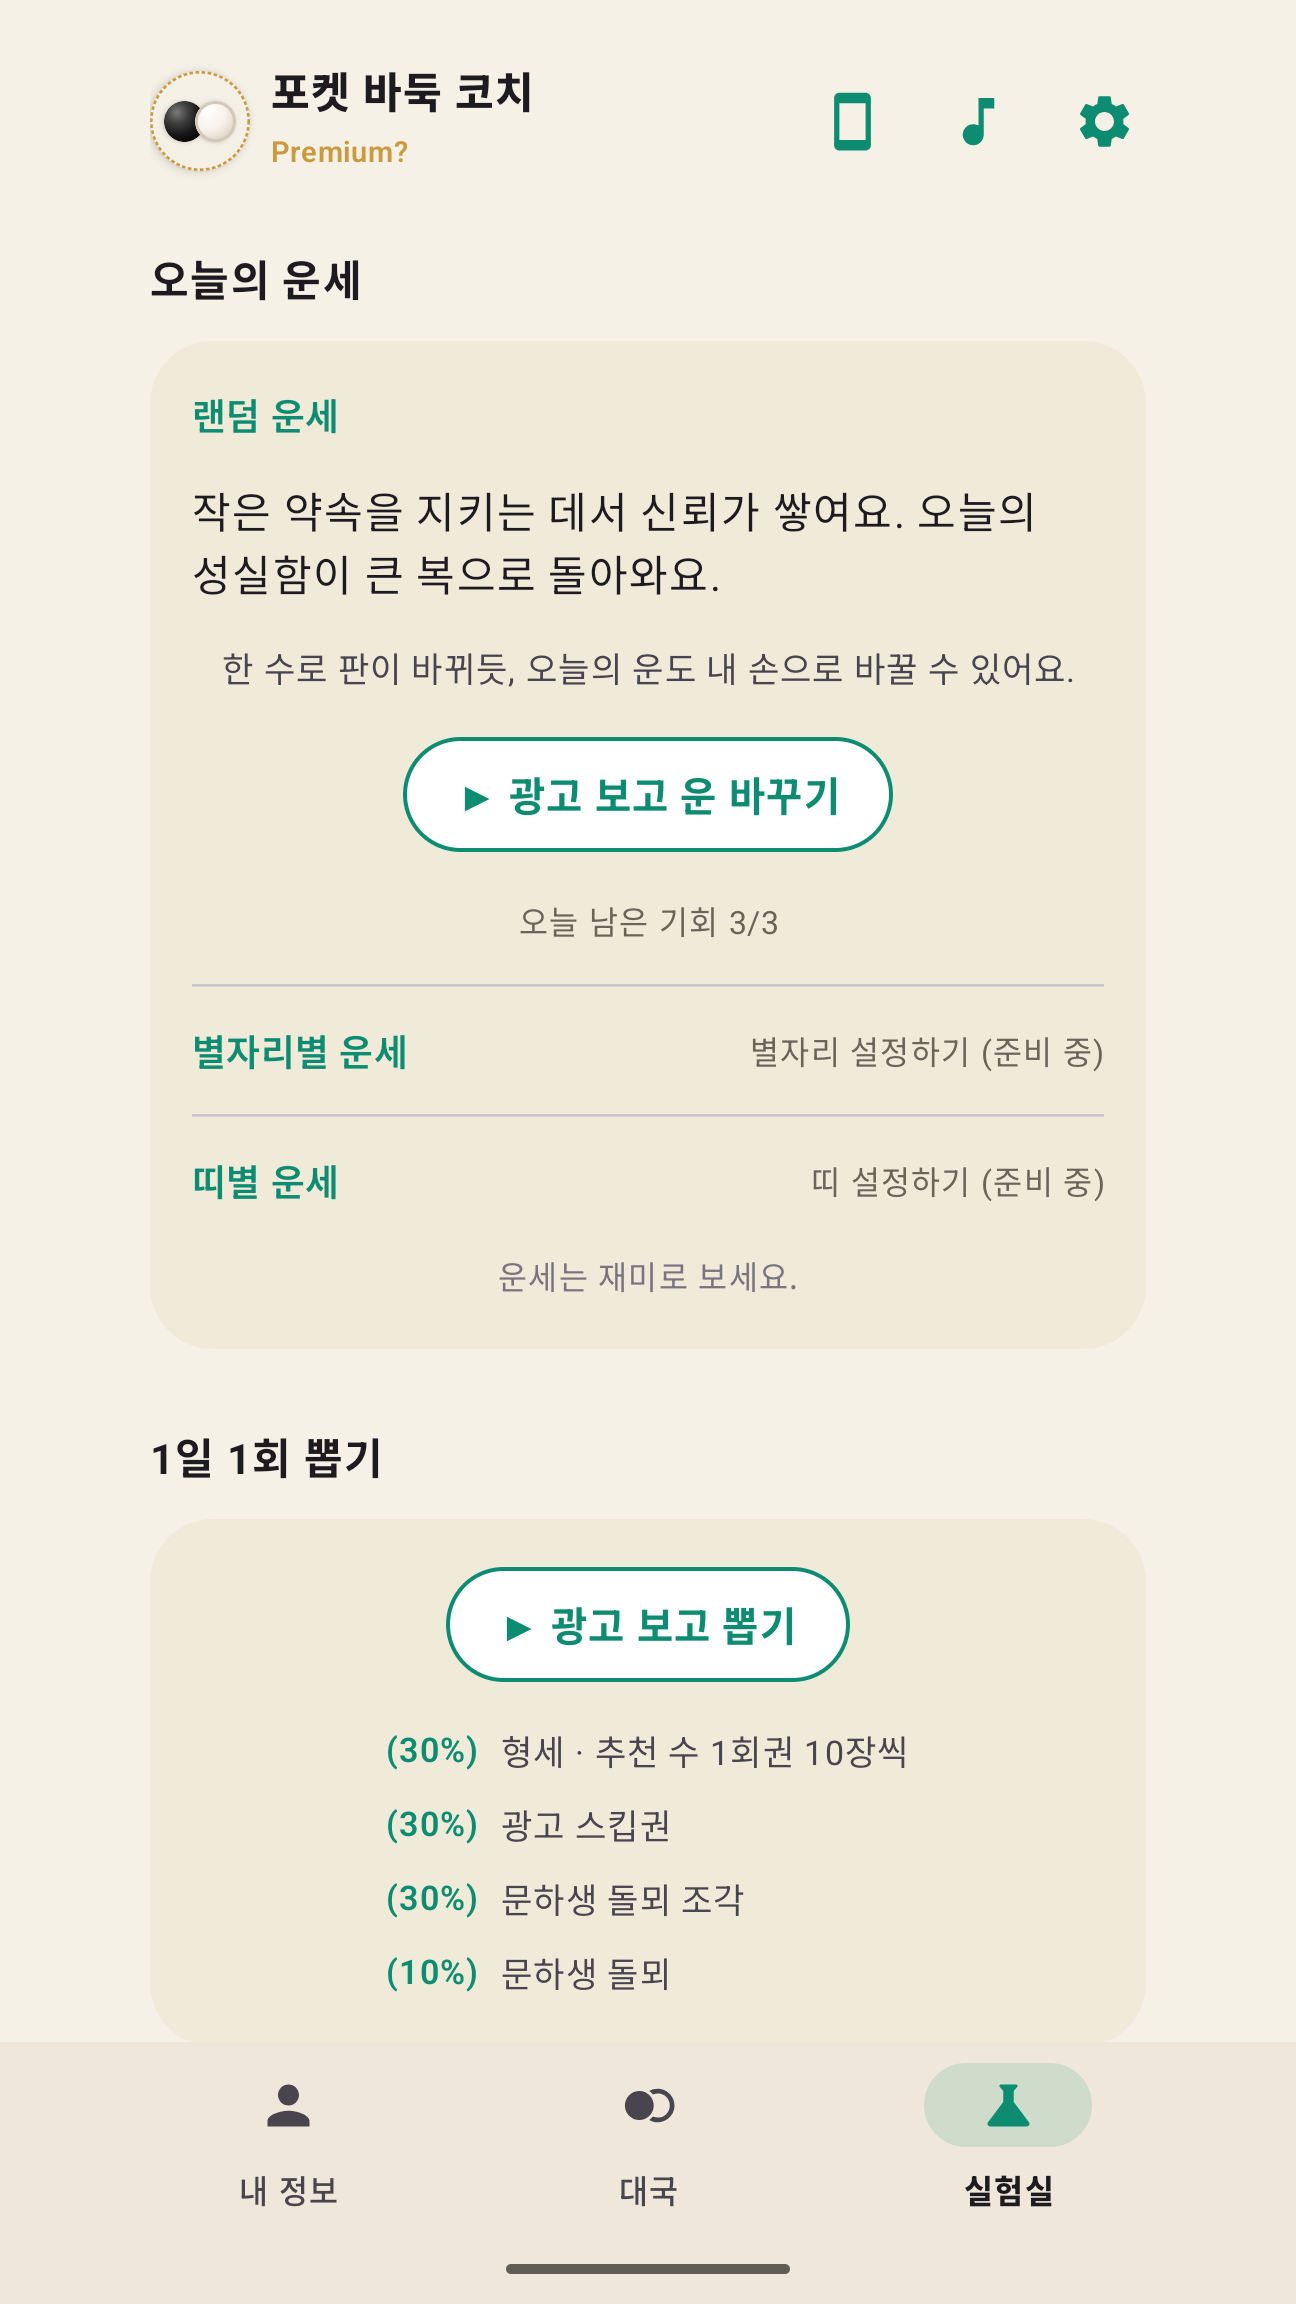
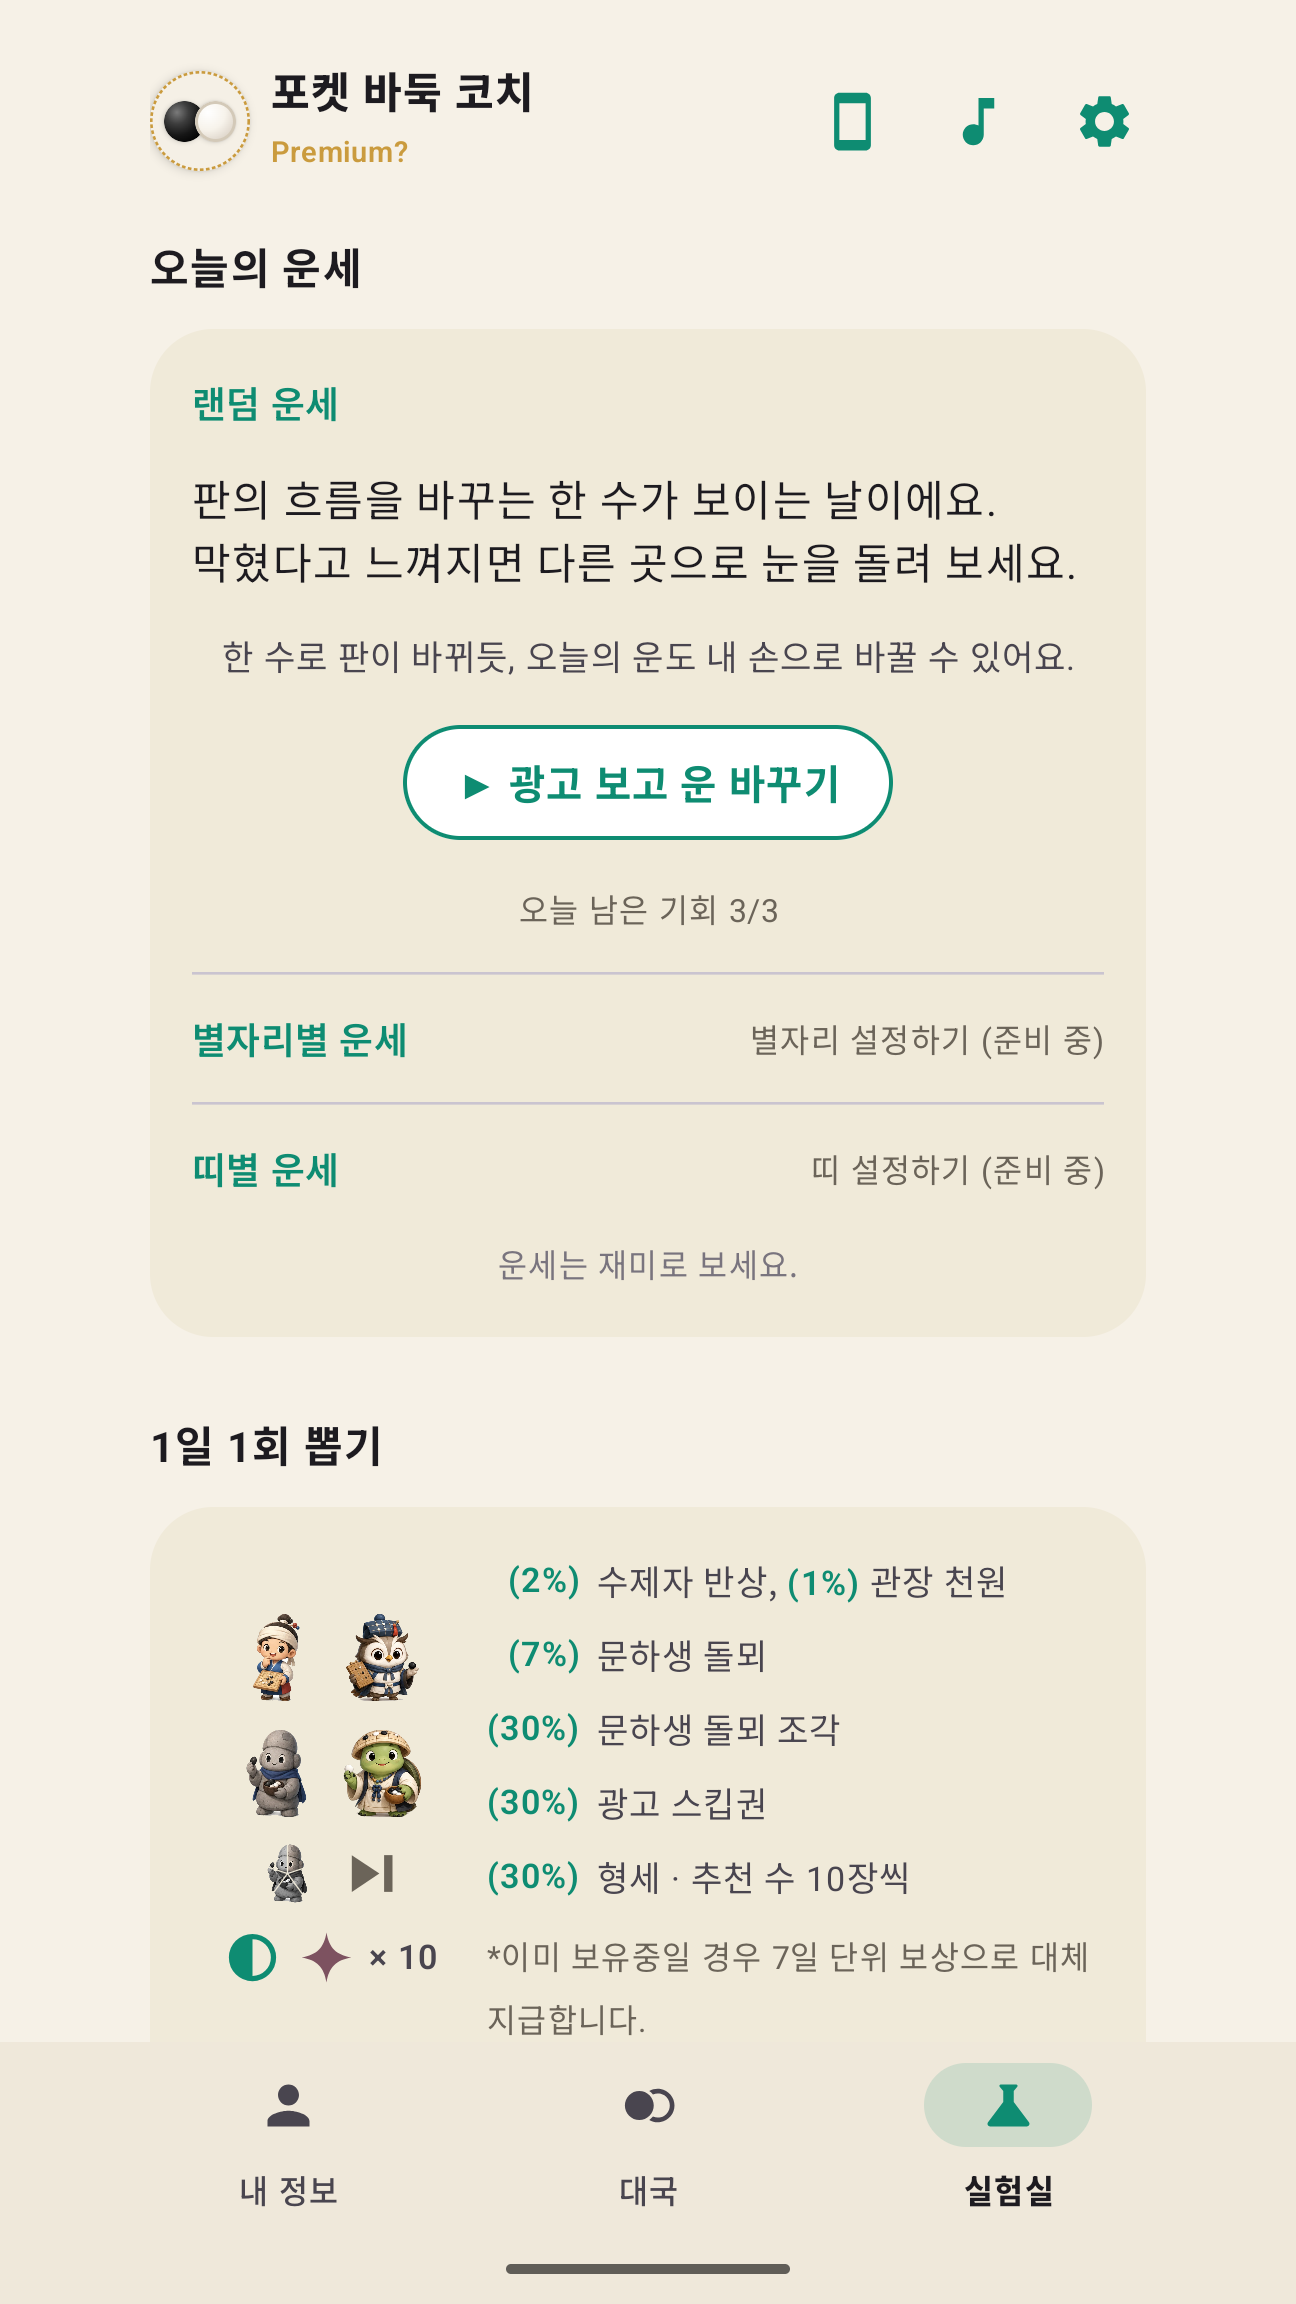
docs(store): 1.8.4 store listing — 01 home (two match cards, 고전 사활 · 바둑 배우기), 02 lab (the draw card with prize pictures and six odds lines) and 08 my info (「✓ 광고 없이 이용」) re-shot in all three folders; both long descriptions name 바둑 배우기 · 고전 사활, the draw's attendance characters and ad-free Premium (ko

diff --git a/work/play-store-assets/README.md b/work/play-store-assets/README.md
@@ -4,7 +4,23 @@
 
 ⚠ **2026-09-13 갱신 — 이 폴더 자체가 정본이다.** 예전엔 이 자리가 `dist/`(gitignore 대상, 로컬 전용)였고 git 추적 정본은 별도로 `design-handoff/export/2026-08-11-v0.1.2/`에 있었다. 그 이원화를 접고 **하나로 합쳤다** — `design-handoff/`는 삭제했고(옛 라운드별 스냅샷은 git 히스토리로만 남는다), 지금 `work/play-store-assets/`가 git에 커밋되는 유일한 사본이자 Play Console에 그대로 올리는 사본이다. 버전 이력은 라운드 폴더를 새로 만들지 않고 git으로 추적하며, 필요하면 날짜 붙인 폴더/파일을 추가할 수 있다(사용자 결정). `AppNameContractTest`가 이 폴더의 `store_listing.txt`를 실제 경로로 읽는다.
 
-## 2026-10-24 — 스크린샷 재캡처 (1.8.2 기준 · 여덟 장 + 대체 둘)
+## 2026-10-26 — 1.8.4 기준 갱신: 세 장 다시 찍음(01 · 02 · 08) + 자세한 설명 한 · 영
+
+사용자(2026-10-26): *"1.8.4 버전을 기준으로 스토어 등록정보 갱신하고 싶어. 스샷 및 내용 작성 후 위치 알려줘"*. 1.8.2 세트 뒤로 바뀐 화면만 다시 찍었다 — 나머지 다섯 장(03 · 04 · 05 · 06 · 07)은 화면이 그대로라 1.8.2 세트를 쓴다.
+
+| 파일 | 바뀐 것 | 연출 |
+| --- | --- | --- |
+| `01_home` | **#288 · #290** 대국 페이지 — 반 폭 대국 카드 둘(일반 대국에 마지막 상대 수제자 반상 · 승급 대국 10급) · 메뉴 칸 넷(대국 기록 · 명국 기보 / **고전 사활 · 바둑 배우기**) | 이어하기 없음 · 「1.8.4에서 달라진 점」 띠를 닫아 오늘의 명언 한 줄 |
+| `02_lab` | **#289** 1일 1회 뽑기 카드 — 상품 그림 · 확률 여섯 줄(출석 캐릭터 2% · 1%) · 대체 지급 각주 | 랜덤 운세를 한 번 뽑았다(무료 첫 운세). 「오늘의 운세」 제목부터 뽑기 각주까지 — 뽑기 단추는 아래 탭에 가린다(카드가 길어 한 화면에 다 안 든다) |
+| `08_mypage` | 구독 카드의 둘째 줄 「✓ 광고 없이 이용」 | 1.8.2 세트와 같은 연출 — 승급 대국 50% · 1승 1패 · 일반 대국 75% · 3승 1패 · 1회권 12 · 12 · 2 |
+
+- **조건**: 에뮬레이터(1080x2400 · 420dpi · 글자 1.0 · 한국어) · 개발 빌드 1.8.4/10804(`876bede5`) · 구독하지 않은 계정 · 비행기 모드. 변환은 그대로 `scripts/make-store-screenshots.py`, 세 폴더에 같은 파일.
+- **연출**: 기록 색인(`files/game_history/index.json`)의 AI끼리 끝까지 둔 여섯 판을 일반 대국 넷(3승 1패 — 마지막 판의 상대 수제자 반상) · 승급 대국 둘(1승 1패)로 바꾸고 날짜를 10-21 ~ 10-25로,
+  1회권을 12 · 12 · 2로, 저장된 대국을 비우고 좌석을 「흑 유저 / 백 수제자 반상」으로 심었다. 촬영 뒤 앱 데이터는 백업(tar)으로 되돌렸다.
+- **자세한 설명**(`store_listing.txt`): 한국어 3,194자 · 영어 3,978자(영어는 한도에 맞추려 진동 · 배경음악 · 기기 백업 줄을 줄였다). 간단한 설명 · 앱 이름은 그대로.
+- ⚠ 올릴 때 순서는 1.8.2 세트와 같다(01 ~ 08). 「`alt_lab_quotes`」 · 「`alt_picker`」는 그대로 두었다(1.8.2 화면).
+
+## 2026-10-24 — 스크린샷 재캡처 (1.8.2 기준 · 여덟 장 + 대체 둘) — ⚠ 01 · 02 · 08은 2026-10-26에 바뀌었다(위)
 
 사용자(2026-10-24): *"1.8.2 버전에 맞게 스토어등록정보도 갱신해야겠어. 스샷 찍어줄래?"*. 1.6.0 세트 뒤로 홈이 세 페이지(내 정보 ‹ 대국 › 실험실)가 됐고 아래 탭 · 윗줄의 화면 모드 버튼 ·
 「일반 대국」 · 타일 그림 문자가 붙었고, **사활 풀기**(1.7.0 — 찍은 적이 없다)와 **실험실**(운세 · 1일 1회 뽑기 · 명언록)이 생겼다.
